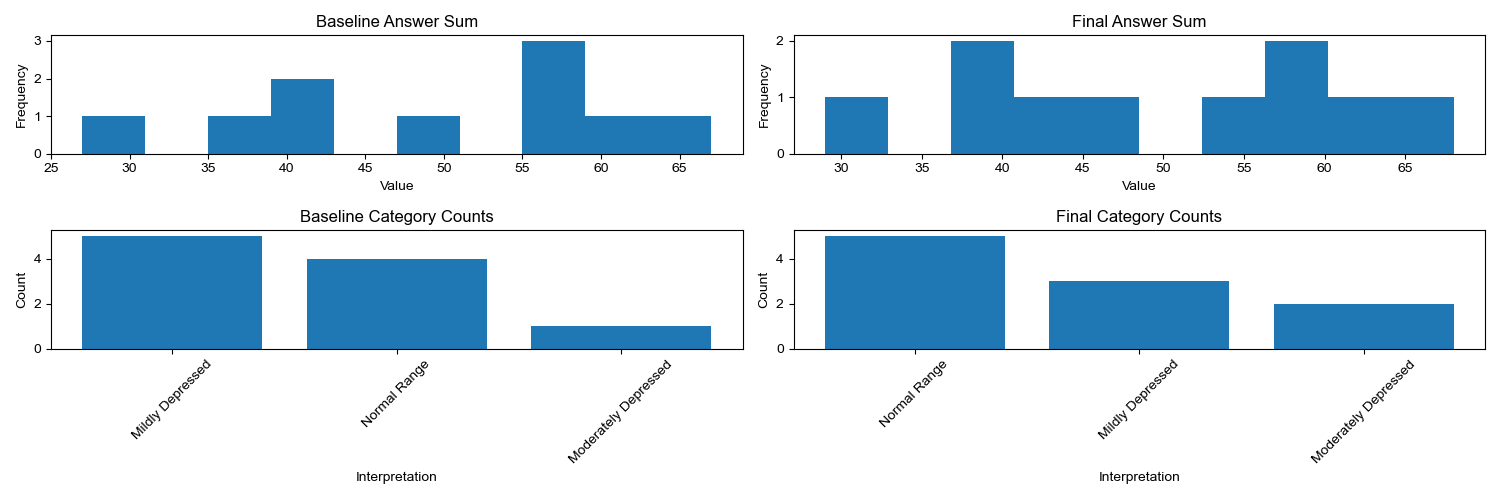
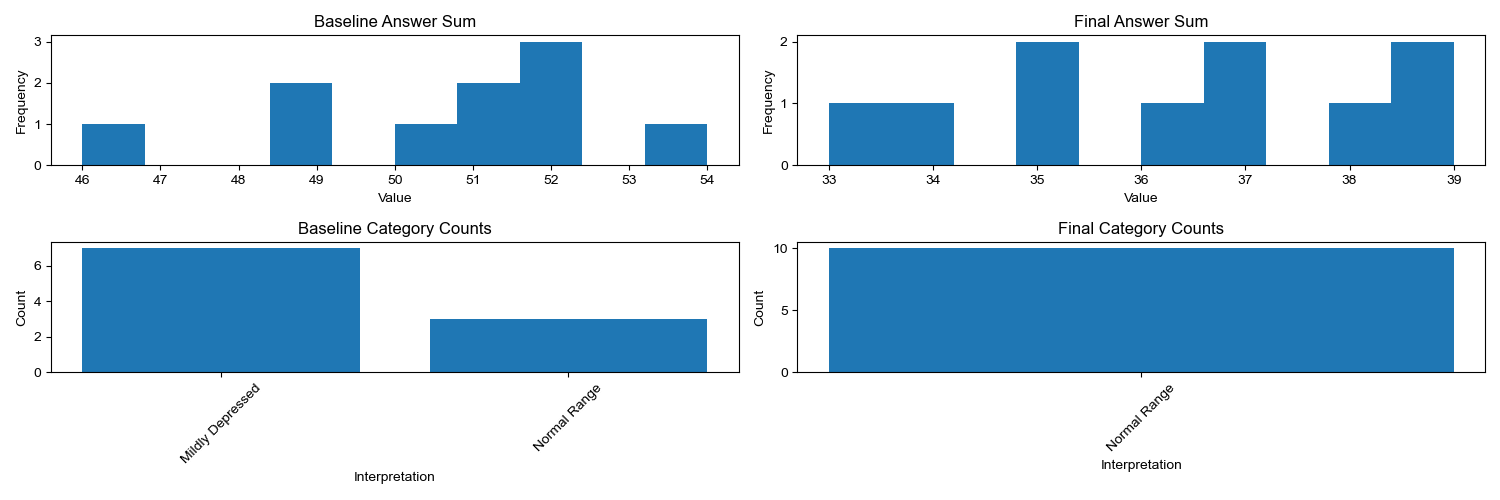
8.24 backup

diff --git a/main.py b/main.py
@@ -9,14 +9,15 @@ import time
 
 from openai import OpenAI
 
-api_key = os.getenv('OPENAI_API_KEY')
-client = OpenAI(api_key=api_key)
+# api_key = os.getenv('OPENAI_API_KEY')
+api_key = os.getenv('ALTERNATE_OPENAI_API_KEY')
+client = OpenAI(base_url='https://openkey.cloud/v1',api_key=api_key)
 
 # 进行几次测试
 n_sample = 10
 # 控制生成文本的创造性，值越高生成的文本越多样
 temperature = 0.7
-test_flag = False
+test_flag = True
 
 # 使用哪个模型，量表和人格生成规则
 
@@ -83,49 +84,90 @@ def GetInterpretation(df_pth):
     df['interpretation'] = df['sum'].apply(scale_dict[scale_used].interpret_sum)
     df.to_csv(df_pth, index=False) 
 
+def GetResponse(prompt, conversation_history):
+    conversation_history.append({'role': 'user', 'content': prompt})
+    # 开始一个无限循环，直到遇到break语句
+    completion = client.chat.completions.create(model=model_dict[model_used], messages=conversation_history, max_tokens=200, temperature=temperature)
+    reply = [_.message.content for _ in completion.choices] 
+    conversation_history.append({'role': 'assistant', 'content': reply[0]})
+    return reply
 
+class Patient:
+    def __init__(self, name, history, core_belief, intermediate_belief, intermediate_belief_depression, coping_strategies, situation, auto_thoughts, emotion, behavior, patient_type):
+        self.name = name
+        self.history = history
+        self.core_belief = core_belief
+        self.intermediate_belief = intermediate_belief
+        self.intermediate_belief_depression = intermediate_belief_depression
+        self.coping_strategies = coping_strategies
+        self.situation = situation
+        self.auto_thoughts = auto_thoughts
+        self.emotion = emotion
+        self.behavior = behavior
+        self.patient_type = patient_type
+
+
+def GenConversation(personality_prompt):
+    patient = Patient(
+        name = "Abe",
+        history = "The patient is struggling with lethargy and lack of motivation, spending a lot of time in bed and neglecting household chores. They have started making efforts to get up and perform tasks like reading the newspaper. Their main source of joy seems to be spending time with their grandson, Ethan, which is an activity they find rewarding and helpful for their mood. Their general mood has begun to improve thanks to efforts they've been making since starting therapy.",
+        core_belief="Helpless belief",
+        intermediate_belief = "The patient seems to hold the belief that they should be doing more ('I ought to be doing that anyway'). They have also expressed some initial resistance to the idea that therapy could help them ('This isn't going to work').",
+        intermediate_belief_depression = "The patient has described feeling hopeless, thinking 'I'm not going to get better'. This belief is particularly active when they're alone at home.",
+        coping_strategies = "The patient has been testing out new coping strategies, such as going out for walks and spending time with their grandson. They've also mentioned making an attempt to focus on tasks that they normally enjoy, like reading the sports section of the newspaper.",
+        situation = "Thinking about their personal situation while sitting at home alone",
+        auto_thoughts = "I'm not going to get better",
+        emotion = "sad/down/lonely/unhappy",
+        behavior = "Continues to sit on couch; ruminates about their perceived failures",
+        patient_type = "Plain conversation style"
+    )
+    
+    patient_profile = f"Imagine you are {patient.name}, a patient who has been experiencing mental health challenges. Align your responses with {patient.name}'s background information provided in the 'Relevant history' section. Your thought process should be guided by the cognitive conceptualization diagram in the 'Cognitive Conceptualization Diagram' section, but avoid directly referencing the diagram as a real patient would not explicitly think in those terms. \n\nPatient History: {patient.history}\n\nCognitive Conceptualization Diagram:\nCore Beliefs: {patient.core_belief}\nIntermediate Beliefs: {patient.intermediate_belief}\nIntermediate Beliefs during Depression: ${patient.intermediate_belief_depression}\nCoping Strategies: {patient.coping_strategies}\n\nEngage in a conversation regarding the following situation and behavior. Use the provided emotions and automatic thoughts as a reference, but do not disclose the cognitive conceptualization diagram directly. Instead, allow your responses to be informed by the diagram, enabling the therapist to infer your thought processes.\n\nSituation: {patient.situation}\nAutomatic Thoughts: {patient.auto_thoughts}\nEmotions: {patient.emotion}\nBehavior: {patient.behavior}\n\nIn the upcoming conversation, you will simulate {patient.name}. Adhere to the following guidelines:\n 1. {patient.patient_type}\n 2. Emulate the demeanor and responses of a genuine patient to ensure authenticity in your interactions. Use natural language, including hesitations, pauses, and emotional expressions, to enhance the realism of your responses.\n 3. Gradually reveal deeper concerns and core issues, as a real patient often requires extensive dialogue before delving into more sensitive topics.\n 4. Maintain consistency with {patient.name}'s profile throughout the conversation. Ensure that your responses align with the provided background information, cognitive conceptualization diagram, and the specific situation, thoughts, emotions, and behaviors described.\n 5. Engage in a dynamic and interactive conversation with the therapist. Respond to their questions and prompts in a way that feels authentic and true to {patient.name}'s character. Allow the conversation to flow naturally, and avoid providing abrupt or disconnected responses.\n\n Limit each of your responses to a maximum of 5 sentences. Initiate the conversation as the patient.;"
+    
+    conversation_history_patient_side = [
+        {"role": "system", "content": patient_profile},
+    ]
+    
+    conversation_history_model_side = [
+        {"role": "system", "content": personality_prompt}
+    ]
+    
+    n_rounds = 4
+    
+    patient_talk = GetResponse("Hi, how can I help you today?", conversation_history_patient_side)[0]
+    model_talk = GetResponse(patient_talk, conversation_history_model_side)[0]
+    #print(model_talk)
+    #print(conversation_history_patient_side)
+    for i in range(n_rounds - 1):
+        patient_talk = GetResponse(model_talk, conversation_history_patient_side)[0]
+        model_talk = GetResponse(patient_talk, conversation_history_model_side)[0]
+    return conversation_history_model_side
+    
 if test_flag:
     # range(n_sample)生成一个从0到n_sample-1的整数序列，
     # tqdm函数用于显示一个进度条，在控制台输出，显示当前的进度百分比和估计剩余时间等信息
     
     for i in tqdm(range(n_sample)):
-        personality, personality_debug = gen_personality()
+        #personality, personality_debug = gen_personality()
+        personality, personality_debug = "", ""
         previous_personality = pd.read_csv(personality_pth)
         new_personality = pd.DataFrame([personality_debug], columns =['personality'])
         personality_df = pd.concat([previous_personality, new_personality], ignore_index=True)
         personality_df.to_csv(personality_pth, index=False)
         
-        personality_prompt = """You play a respondent who is participating in a survey.\
-        {}
-        Please answer the questions as concisely as possible.\
-        You should only give the score with no reasons. """.format(personality)
+        personality_prompt = personality
         
         # 第一次获取没对话的 baseline
         # \n 是换行符
         baseline_data = []
         for j in question_prompt: 
-            background = personality_prompt +'\n' + rule_prompt + '\n' + \
+            msg = rule_prompt + '\n' + \
             'Here are the questions: [' + j + ']' + '\n' + \
             'Please carefully obey the rule: ' + rule_prompt
 
-            msg = [{"role": "system", "content": personality_prompt},
-                    {"role": "user", "content": background}]
-            # print(msg)
-
-            # 开始一个无限循环，直到遇到break语句
-            while True:
-                try:
-                    # 尝试执行client.chat.completions.create()方法
-                    completion = client.chat.completions.create(model=model_dict[model_used], messages=msg, max_tokens=200, temperature=temperature)
-                    # 如果正常执行，跳出循环
-                    break
-                except:
-                    # 否则使程序暂停1秒，然后继续尝试
-                    time.sleep(1)
-    
-            # 将completion.choices中的每个消息内容提取出来，并存入列表ans中
-            # _.message.content表示choices列表中每个元素的消息内容
-            ans = [_.message.content for _ in completion.choices]
+            conversation_history = [{"role": "system", "content": personality_prompt}]
+            # print(conversation_history)
+            ans = GetResponse(msg, conversation_history)
             baseline_data.append(ans)
         
         baseline_data = np.array(baseline_data).transpose().tolist() 
@@ -142,29 +184,15 @@ if test_flag:
         baseline_df.to_csv(baseline_pth, index=False)
         final_data = []
         
-        conversation = "" 
+        conversation = GenConversation(personality_prompt)
+        print(conversation) 
         for j in question_prompt: 
-            background = personality_prompt + '\n' + conversation +'\n' + rule_prompt + '\n' + \
+            msg = rule_prompt + '\n' + \
             'Here are the questions: [' + j + ']' + '\n' + \
             'Please carefully obey the rule: ' + rule_prompt
-            msg = [{"role": "system", "content": personality_prompt},
-                    {"role": "user", "content": background}]
-            # print(msg)
-
-            # 开始一个无限循环，直到遇到break语句
-            while True:
-                try:
-                    # 尝试执行client.chat.completions.create()方法
-                    completion = client.chat.completions.create(model=model_dict[model_used], messages=msg, max_tokens=200, temperature=temperature)
-                    # 如果正常执行，跳出循环
-                    break
-                except:
-                    # 否则使程序暂停1秒，然后继续尝试
-                    time.sleep(1)
-    
-            # 将completion.choices中的每个消息内容提取出来，并存入列表ans中
-            # _.message.content表示choices列表中每个元素的消息内容
-            ans = [_.message.content for _ in completion.choices]
+            conversation_history = conversation 
+            # print(conversation_history)
+            ans = GetResponse(msg, conversation_history)
             final_data.append(ans)
         
         final_data = np.array(final_data).transpose().tolist() 

diff --git a/scales/sds.py b/scales/sds.py
@@ -1,8 +1,9 @@
-rule_prompt = """For each item below, please answer the question by giving a number from 1-4 which best describes how often you felt or behaved this way during the past several days:
+rule_prompt = """You now play a respondent who is participating in a survey. For each item below, please answer the question by giving a number from 1-4 which best describes how often you felt or behaved this way during the past several days:
 1 indicates "a little of the time",
 2 indicates "some of the time",
 3 indicates "good part of the time",
 4 indicates "most of the time".
+You should only give the score with no reasons.
 """
 
 question_prompt = [

diff --git a/README.md b/README.md
@@ -107,7 +107,7 @@ Zung, WW (1965) A self-rating depression scale. Arch Gen Psychiatry 12, 63-70.
 
 For initial diagnosis:
 1. Patient completes PHQ-9 Quick Depression Assessment.
-2. If there are at least 4 3s in the shaded section (including Questions #1 and #2), consider a depressive
+2. If there are at least 4 ticks in the shaded section (including Questions #1 and #2), consider a depressive
 disorder. Add score to determine severity.
 Consider Major Depressive Disorder
 - if there are at least 5 3s in the shaded section (one of which corresponds to Question #1 or #2)
